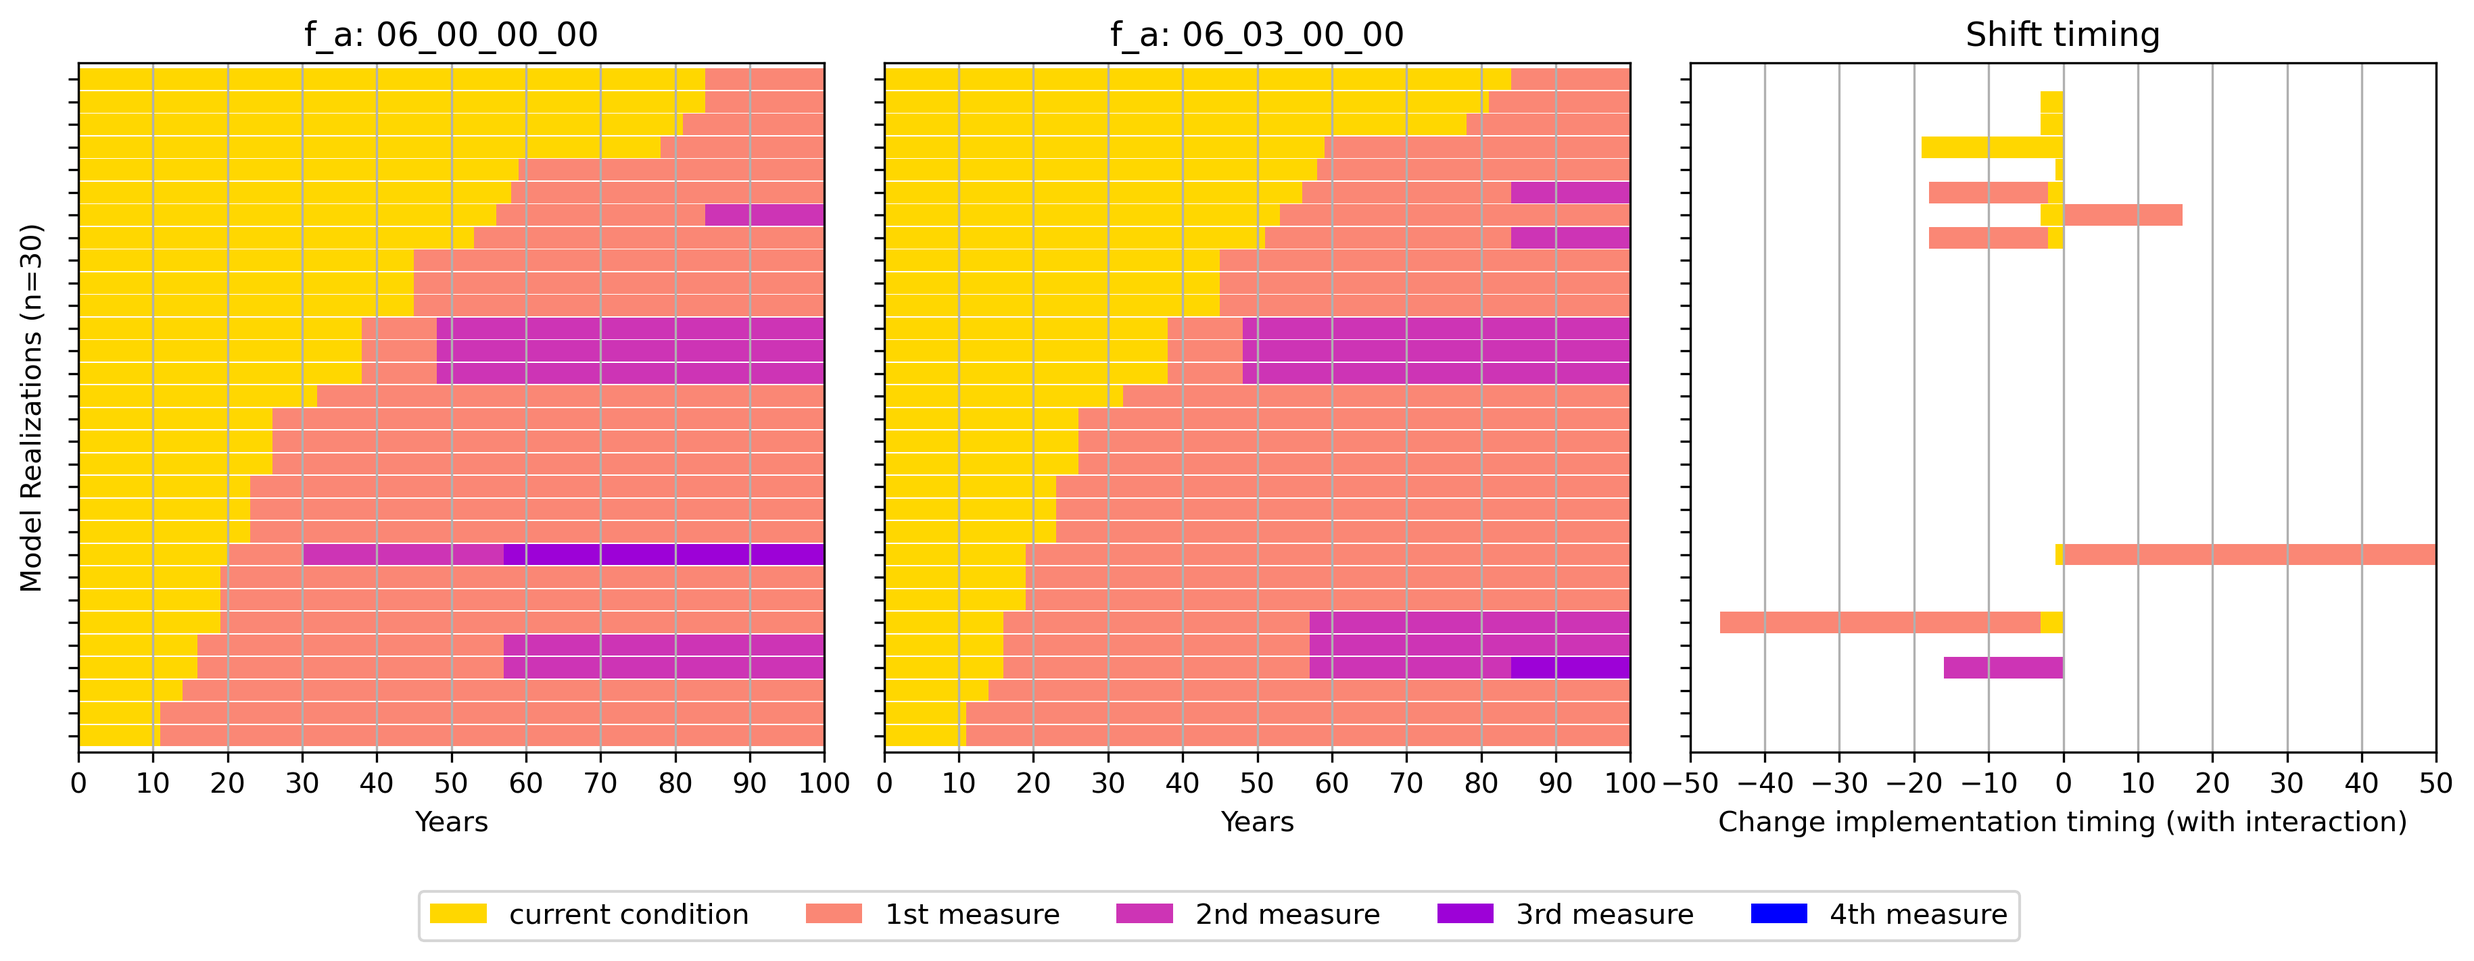
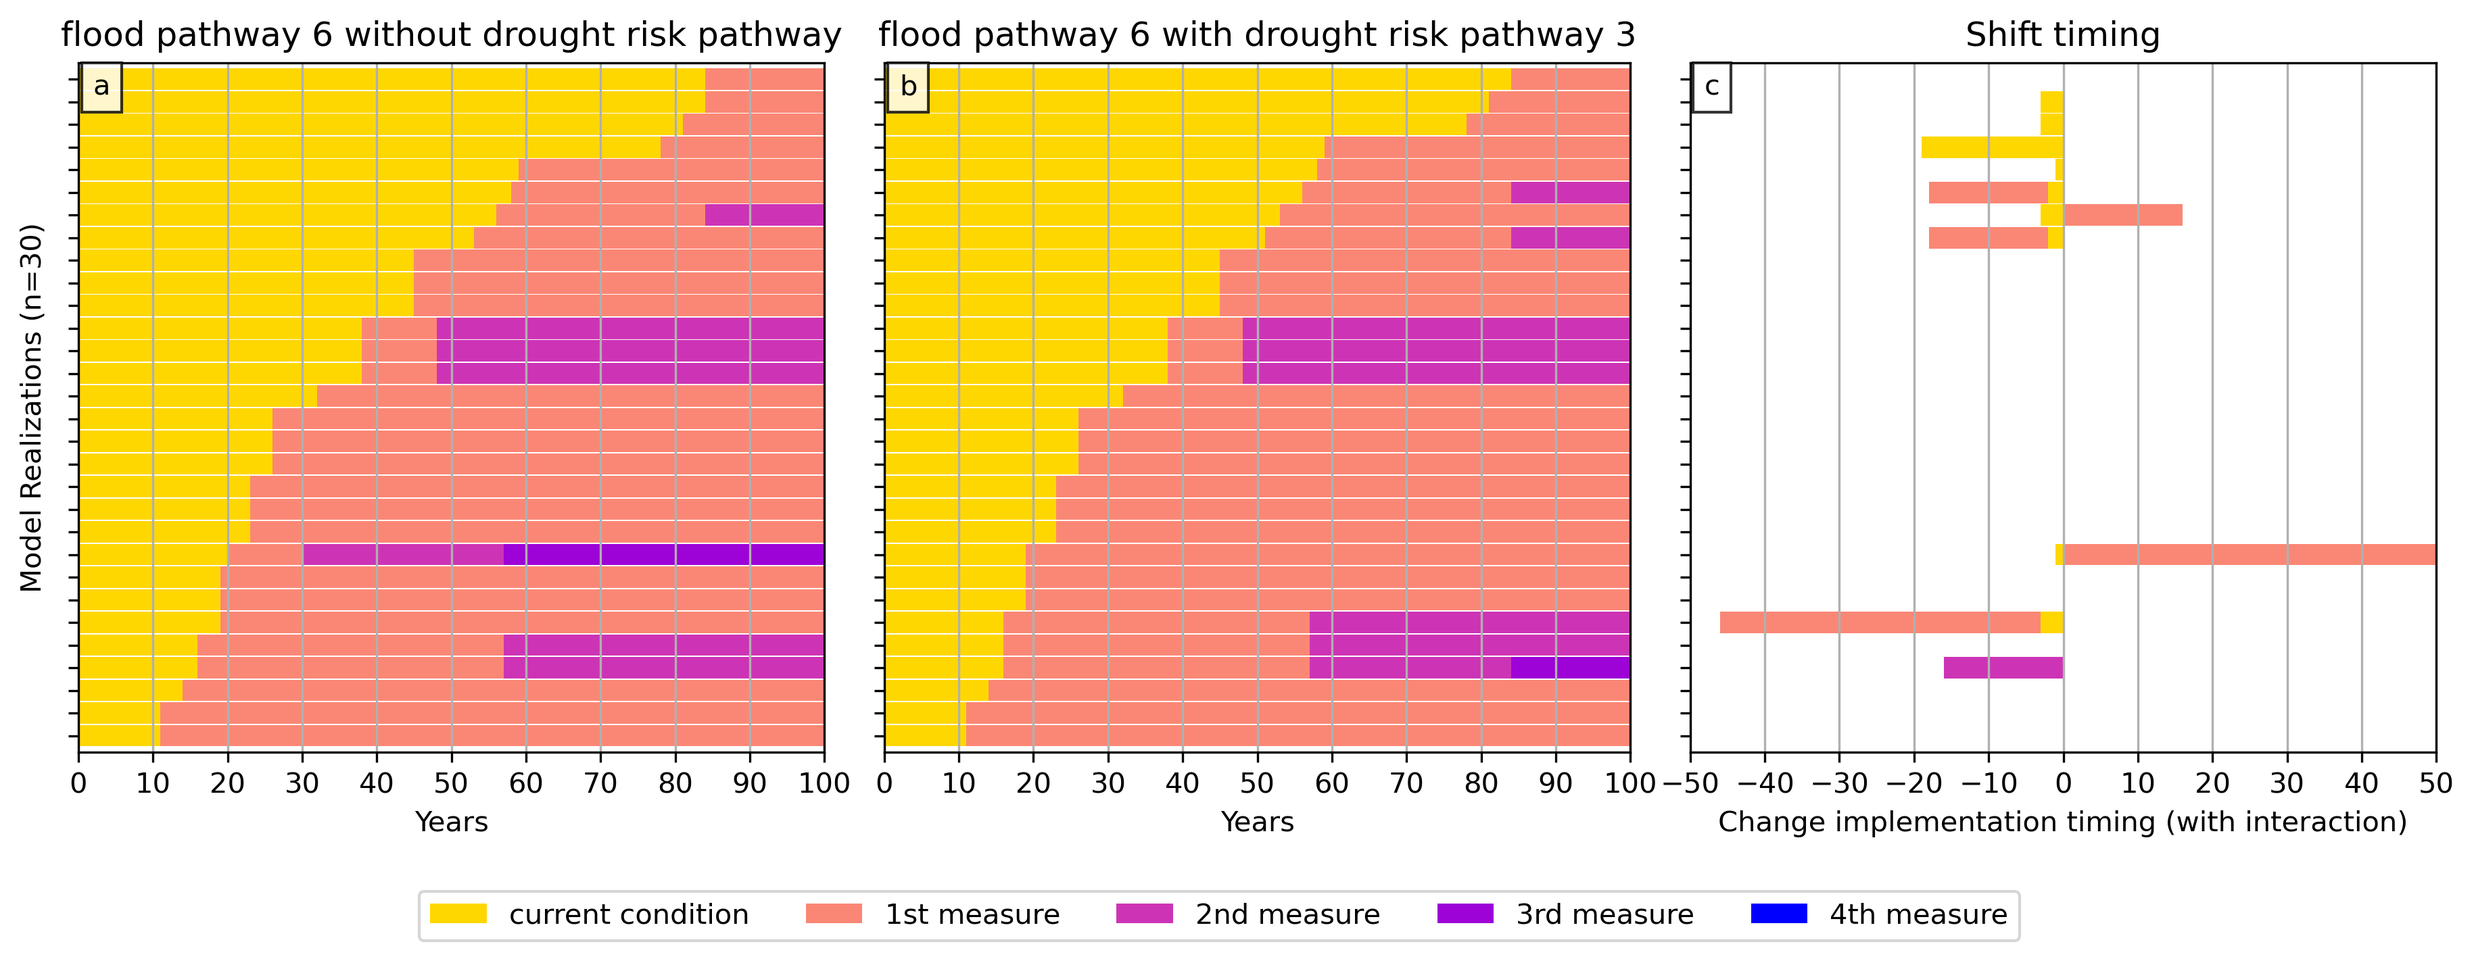
Waasmodel and additional files for output creation & change pathways sequencing changes if measure removed (keep &&)

Changed region(s): [[0.0312, 0.0, 0.6543, 0.1238]]

diff --git a/show_input_uncertainties.py b/show_input_uncertainties.py
@@ -1,0 +1,237 @@
+import pandas as pd
+import numpy as np
+import seaborn as sns
+from viz.helper_outputprocessing import read_csv_file
+import matplotlib.pyplot as plt
+from scipy.stats import linregress
+from pcraster import *
+
+
+cc_scenarios_labels = {'D': 'current climate',
+                'G': 'low climate change',
+                'Wp': 'high climate change'}
+
+def process_dataframe_updated(dataframe):
+    # Group by 'climvar' and 'cc_scenario'
+    groups = dataframe.groupby(['climvar', 'cc_scenario'])
+
+    # List to hold the processed dataframes
+    processed_dfs = []
+
+    for _, group in groups:
+        # Drop rows where 'value' is 0
+        group = group[group['value'] != 0]
+
+        # Drop rows where the 'value' in the next row is larger
+        group = group[group['value'].shift(-1) <= group['value']]
+
+        # Append the processed group to the list
+        processed_dfs.append(group)
+
+    # Concatenate all processed groups into a single DataFrame
+    return pd.concat(processed_dfs)
+
+
+
+
+# Permanently changes the pandas settings
+pd.set_option('display.max_rows', None)
+pd.set_option('display.max_columns', None)
+pd.set_option('display.width', None)
+pd.set_option('display.max_colwidth', -1)
+
+
+def drought_frequency(d_filename):
+    drought_info = read_csv_file(d_filename)
+
+    # Apply the updated processing function to the DataFrame
+    processed_df_updated = process_dataframe_updated(drought_info)
+    processed_df_updated['year'] = processed_df_updated['year']/35
+    processed_df_updated['value'] = processed_df_updated['value']
+
+    # Identify unique values of 'cc_scenario'
+    cc_scenarios = processed_df_updated['cc_scenario'].unique()
+
+    # Number of unique cc_scenario values
+    num_cc_scenarios = len(cc_scenarios)
+
+    # First row: Histograms with bin centers at integers for each cc_scenario
+    bin_edges = np.arange(-5, 190, 10)  # Bin edges from -0.5 to 19.5
+
+
+    # Create a figure with two rows of subplots
+    fig, axes = plt.subplots(nrows=2, ncols=num_cc_scenarios, sharey='row', figsize=(15, 7))
+
+    # First row: Histograms for each cc_scenario
+    for i, cc in enumerate(cc_scenarios):
+        axes[0, i].hist(processed_df_updated[processed_df_updated['cc_scenario'] == cc]['value'], bins=bin_edges)
+        axes[0, i].set_title(f'Frequency Droughts ({cc_scenarios_labels[cc]} scenario)')
+        axes[0, i].set_xlabel('Drought Condition Length [days]')
+        if i == 0:
+            axes[0, i].set_ylabel('Frequency')
+
+        # Set x-axis to show integers from 0 to 19
+        axes[0, i].set_xlim(0, 190)
+        axes[0, i].set_xticks(range(0, 190,10))
+        axes[0, i].set_ylim(0, 520)
+        # plt.xticks()
+        axes[0, i].tick_params(axis='x', labelrotation=45)
+        # axes[0, i].set_xticks(range(0, 200, 10))
+
+    # Second row: Scatterplots for each cc_scenario
+    for i, cc in enumerate(cc_scenarios):
+        subset = processed_df_updated[processed_df_updated['cc_scenario'] == cc]
+        # # Calculate trend line
+        slope, intercept, _, _, _ = linregress(subset['year'], subset['value'])
+        trend_line = slope * subset['year'] + intercept
+        axes[1, i].plot(subset['year'], trend_line, color="red")  # Trend line in red
+
+        sns.histplot(subset, x="year", y="value", ax=axes[1, i], binwidth=(5, 10))
+        axes[1, i].set_title(f'Temporal distribution ({cc_scenarios_labels[cc]} scenario)')
+        axes[1, i].set_xlabel('Years into the future')
+        if i == 0:
+            axes[1, i].set_ylabel('Drought Condition Length [days]')
+        axes[1, i].set_ylim(0, 190)
+        axes[1, i].set_yticks(range(0, 190,20))
+    fig.suptitle('Drought Event Lenghts - Frequency and Temporal distribution', size=16)
+    plt.tight_layout()
+    fig.savefig(f'{inputfolder}/drought_occurences.png', dpi=300)
+
+def get_flood_count_quantiles(df, output):
+    df_lineplot = df[df.output == output]
+    df_lineplot['year'] = df_lineplot['year'] / 35
+    df_lineplot['count'] = (df_lineplot['value'] != 0).astype(int)
+
+    df_lineplot['count'] = df_lineplot.groupby(['cc_scenario', 'climvar'])['count'].cumsum()
+    return df_lineplot
+
+
+def flood_frequency(f_filename):
+    flood_info = read_csv_file(f_filename)
+    df_lineplot = get_flood_count_quantiles(flood_info,  'floodtiming')
+    grouped = df_lineplot.groupby(['cc_scenario', 'year'])['count'].quantile([.1, .5, .9])
+    grouped = grouped.reset_index()
+
+    # Unique cc_scenario values for creating subplots
+    cc_scenarios = grouped['cc_scenario'].unique()
+
+    # Creating subplots
+    fig, axes = plt.subplots(nrows=1, ncols=len(cc_scenarios), figsize=(15, 5), sharey=True)
+
+    for i, cc in enumerate(cc_scenarios):
+        subset = grouped[grouped['cc_scenario'] == cc]
+        median_values = subset[subset['level_2'] == 0.5]
+        lower_values = subset[subset['level_2'] == 0.1]
+        upper_values = subset[subset['level_2'] == 0.9]
+
+        axes[i].plot(median_values['year'], median_values['count'], label='Median')
+        axes[i].fill_between(median_values['year'], lower_values['count'], upper_values['count'], alpha=0.3)
+        axes[i].set_title(f'{cc_scenarios_labels[cc]} scenario')
+        axes[i].set_xlabel('Years into the future')
+        axes[i].grid()
+        if i == 0:
+            axes[i].set_ylabel('Count Flood events')
+    fig.suptitle('Accumulated Flood counts (with uncertainty bands)', size=16)
+    plt.legend()
+    plt.tight_layout()
+    fig.savefig(f'{inputfolder}/flood_occurence.png', dpi=300)
+
+def flood_vs_multihazard(mh_flood, flood):
+    flood_info = read_csv_file(flood)
+    mh_info = read_csv_file(mh_flood)
+    df_floodplot = get_flood_count_quantiles(flood_info,  'floodtiming')
+    df_mhplot = get_flood_count_quantiles(mh_info,  'floodtiming')
+
+    sh_floods = df_floodplot.groupby(['cc_scenario', 'year'])['count'].quantile([.1, .5, .9])
+    sh_floods = sh_floods.reset_index()
+
+    mh_floods = df_mhplot.groupby(['cc_scenario', 'year'])['count'].quantile([.1, .5, .9])
+    mh_floods = mh_floods.reset_index()
+
+    # Unique cc_scenario values for creating subplots
+    cc_scenarios = mh_floods['cc_scenario'].unique()
+
+    # Creating subplots
+    fig, axes = plt.subplots(nrows=1, ncols=len(cc_scenarios), figsize=(15, 5), sharey=True)
+
+    for i, cc in enumerate(cc_scenarios):
+        sh_subset = sh_floods[sh_floods['cc_scenario'] == cc]
+        sh_median_values = sh_subset[sh_subset['level_2'] == 0.5]
+        sh_lower_values = sh_subset[sh_subset['level_2'] == 0.1]
+        sh_upper_values = sh_subset[sh_subset['level_2'] == 0.9]
+
+        mh_subset = mh_floods[mh_floods['cc_scenario'] == cc]
+        mh_median_values = mh_subset[mh_subset['level_2'] == 0.5]
+        mh_lower_values = mh_subset[mh_subset['level_2'] == 0.1]
+        mh_upper_values = mh_subset[mh_subset['level_2'] == 0.9]
+
+        axes[i].plot(sh_median_values['year'], sh_median_values['count'], label='Single-Hazard Flood Median')
+        axes[i].fill_between(sh_median_values['year'], sh_lower_values['count'], sh_upper_values['count'],
+                             alpha=0.3)
+
+        axes[i].plot(mh_median_values['year'], mh_median_values['count'], label='Multi-Hazard Flood Median')
+        axes[i].fill_between(mh_median_values['year'], mh_lower_values['count'], mh_upper_values['count'],
+                             alpha=0.3)
+        axes[i].set_title(f'{cc_scenarios_labels[cc]} scenario')
+        axes[i].set_xlabel('Years into the future')
+        axes[i].grid()
+        if i == 0:
+            axes[i].set_ylabel('Count Flood events')
+    fig.suptitle('Comparing Multi-Hazard and Single-Hazard Flood Event Counts (with uncertainty bands)', size=16)
+    plt.legend()
+
+    plt.tight_layout()
+    fig.savefig(f'{inputfolder}/flood_occurence_comparison.png', dpi=300)
+
+def count_waterlogging_events(mh_filename):
+    waterlogging_info = read_csv_file(mh_filename)
+    waterlogging_info = waterlogging_info[waterlogging_info.output == 'agri_areas_exposed_count']
+    waterlogging_info['value'] = waterlogging_info['value'].apply(lambda x: x if x >= 2000 else 0)
+
+    df_lineplot = get_flood_count_quantiles(waterlogging_info, 'agri_areas_exposed_count')
+    grouped = df_lineplot.groupby(['cc_scenario', 'year'])['count'].quantile([.1, .5, .9])
+    grouped = grouped.reset_index()
+
+    # Unique cc_scenario values for creating subplots
+    cc_scenarios = grouped['cc_scenario'].unique()
+
+    # Creating subplots
+    fig, axes = plt.subplots(nrows=1, ncols=len(cc_scenarios), figsize=(15, 5), sharey=True)
+
+    for i, cc in enumerate(cc_scenarios):
+        subset = grouped[grouped['cc_scenario'] == cc]
+        median_values = subset[subset['level_2'] == 0.5]
+        lower_values = subset[subset['level_2'] == 0.1]
+        upper_values = subset[subset['level_2'] == 0.9]
+
+        axes[i].plot(median_values['year'], median_values['count'], label='Median')
+        axes[i].fill_between(median_values['year'], lower_values['count'], upper_values['count'],
+                             alpha=0.3)
+        axes[i].set_title(f'({cc_scenarios_labels[cc]} scenario)')
+        axes[i].set_xlabel('Years into the future')
+        axes[i].grid()
+        if i == 0:
+            axes[i].set_ylabel('Count Waterlogging Events')
+    fig.suptitle('Accumulated count of Waterlogging Events (with uncertainty bands)', size=16)
+    plt.legend()
+    plt.tight_layout()
+    fig.savefig(f'{inputfolder}/waterlogging_occurence.png', dpi=300)
+
+
+inputfolder = 'inputs_visual/009999'
+
+filename = 'portfolio_00_00_00_00.csv.gz'
+# droughts
+d_filename = f'{inputfolder}/stage_1/drought_agr/{filename}'
+f_filename = f'{inputfolder}/stage_1/flood_agr/{filename}'
+mh_filename = f'{inputfolder}/stage_2/multihaz_agr/{filename}'
+
+drought_frequency(d_filename)
+flood_frequency(f_filename)
+flood_vs_multihazard(mh_filename, f_filename)
+count_waterlogging_events(mh_filename)
+
+LandUse = readmap(r"{}".format('waasmodel_v6/inputs/maps/land_ini.pcr'))
+agriculturemap = LandUse == 9  # Veerle Make map with only the agricultural areas
+count_agri_area = pcr2numpy(agriculturemap,0).sum()
+print(count_agri_area)

diff --git a/waasmodel_v6/module_measure.py b/waasmodel_v6/module_measure.py
@@ -175,11 +175,11 @@ class MeasureModule:
                     pass
                     # print(f"{next_measure} is not in the list.")
 
-
-                if next_measure == 'f_resilient_crops' and str(
-                        inputs.measure_numbers['d_resilient_crops']) in module_transfer.pathways_list_d_a:
-                    module_transfer.pathways_list_d_a = module_transfer.pathways_list_d_a.replace(
-                        str(inputs.measure_numbers['d_resilient_crops']), '').replace('&&', '&')
+                #
+                # if next_measure == 'f_resilient_crops' and str(
+                #         inputs.measure_numbers['d_resilient_crops']) in module_transfer.pathways_list_d_a:
+                #     module_transfer.pathways_list_d_a = module_transfer.pathways_list_d_a.replace(
+                #         str(inputs.measure_numbers['d_resilient_crops']), '').replace('&&', '&')
 
                 self.y_lastm_f_a = year  # store year of last measure implemented
         if self.hs_pair == 'flood_urb' or self.stage > 1:
@@ -208,10 +208,10 @@ class MeasureModule:
                     module_transfer=module_transfer, inputs=inputs)
                 self.y_lastm_d_a = year  # store year of last measure implemented
 
-                if next_measure == 'f_resilient_crops' and str(
-                        inputs.measure_numbers['d_resilient_crops']) in module_transfer.pathways_list_d_a:
-                    module_transfer.pathways_list_d_a = module_transfer.pathways_list_d_a.replace(
-                        str(inputs.measure_numbers['d_resilient_crops']), '').replace('&&', '&')
+                # if next_measure == 'f_resilient_crops' and str(
+                #         inputs.measure_numbers['d_resilient_crops']) in module_transfer.pathways_list_d_a:
+                #     module_transfer.pathways_list_d_a = module_transfer.pathways_list_d_a.replace(
+                #         str(inputs.measure_numbers['d_resilient_crops']), '').replace('&&', '&')
 
         if self.hs_pair == 'drought_shp' or self.stage > 1:
             if (module_transfer.d_s_decision_value >= inputs.d_s_tp_cond or module_transfer.DamShp_tot >= inputs.d_s_tp_extreme_year) and year >= self.y_lastm_d_s + inputs.yrs_btw_nmeas:

diff --git a/waasmodel_v6/inputs_runclass.py b/waasmodel_v6/inputs_runclass.py
@@ -60,15 +60,7 @@ class RunClassInputs:
         self.keys_dict[2]['multihaz_agr']['analysis'] = ['f_a_decision_value', 'DamAgr_f', 'pathways_list_f_a',
                                                       'DikeFails', 'wlvl', 'fragdike',
                                                       'ClimQmax', 'sprink_dikes']
-        # self.keys_dict[2]['multihaz_agr']['analysis'] = ['f_a_decision_value', 'd_a_decision_value', 'DikeFails_tot',
-        #                                                  'DamAgr_f_tot',
-        #                                                  'lost_cropland', 'pathways_list_f_a',
-        #                                                  'DamAgr_f', 'DikeFails', 'wlvl', 'fragdike', 'floodtiming',
-        #                                                  'ClimQmax', 'sprink_dikes', 'DamAgr_d', 'caprise',
-        #                                                  'collectwater',
-        #                                                  'epot', 'eact', 'eratio', 'soilm', 'groundwlvl', 'percol',
-        #                                                  'wbalance', 'survfrac', 'runoff', 'sprink', 'damfrac_t_d',
-        #                                                  'damfrac_tot_d', 'yact', 'ypot', 'revenue_agr']
+
         self.keys_dict[2]['multihaz_urb']['out_only'] = ['f_u_decision_value', 'DamUrb_tot',
                                                       'pathways_list_f_u']
         self.keys_dict[2]['multihaz_urb']['analysis'] = ['f_u_decision_value', 'DikeFails_tot', 'DamUrb_tot',
@@ -106,4 +98,11 @@ class RunClassInputs:
         self.keys_dict[3]['multihaz_multisec']['analysis'] = ['f_a_decision_value', 'DamAgr_f', 'pathways_list_f_a',
                                                          'DikeFails', 'wlvl', 'fragdike',
                                                          'ClimQmax', 'sprink_dikes']
+
+        # input analysis
+        self.keys_dict[1]['flood_agr']['analysis'] = ['floodtiming']
+        self.keys_dict[1]['drought_agr']['analysis'] = ['droughtdays']
+
+        self.keys_dict[2]['multihaz_agr']['analysis'] = ['floodtiming', 'droughtdays', 'agri_areas_exposed_count'
+                                                         ]
 

diff --git a/run_model.py b/run_model.py
@@ -38,23 +38,23 @@ def normal_run(realization_ini, sector, stage, pathway_combinations, start_value
 
 
 # SPECIFIC RUN #
-sector = 'drought_shp' # options are: 'flood_agr', 'drought_agr', 'flood_urb', 'drought_shp', 'multihaz_agr', 'multihaz_urb', 'multihaz_multisec'
+sector = 'multihaz_agr' # options are: 'flood_agr', 'drought_agr', 'flood_urb', 'drought_shp', 'multihaz_agr', 'multihaz_urb', 'multihaz_multisec'
 first_scenario = 1  # scenarios from 1 to 31
-stage = 1
+stage = 2
 num_scenarios = 30
 analysis = 'analysis'  # 'out_only', 'analysis' to specify which outputfiles are generated (see inputs_runclass.py)
 test_all = False  # if False, only discharge levels not leading to damages will be neglected (speed up computation)
-outfolder = 'model_outputs'  # name of folder (within current folder) created to store the outputs
+outfolder = 'inputs_visual'  # name of folder (within current folder) created to store the outputs
 measure_list = [['no_measure']]
-realization_numbers = [22000]
+realization_numbers = [9999]
 portfolio_numbers = {
-                'flood_agr': 2,
+                'flood_agr': 0,
                 'flood_urb': 0,
-                'drought_agr': 1,
+                'drought_agr': 0,
                 'drought_shp': 0}
 
-# specific_run(sector=sector, stage=stage, first_scenario=first_scenario, num_scenarios=num_scenarios,analysis=analysis,
-#              test_all=test_all, outfolder=outfolder, measure_list=measure_list, portfolio_numbers=portfolio_numbers)
+specific_run(sector=sector, stage=stage, first_scenario=first_scenario, num_scenarios=num_scenarios,analysis=analysis,
+             test_all=test_all, outfolder=outfolder, measure_list=measure_list, portfolio_numbers=portfolio_numbers)
 
 
 # NORMAL RUN #
@@ -70,5 +70,5 @@ start_value = 6 # which potential pathways combinations to test.
 end_value = len(pathway_combinations)
 
 #
-normal_run(realization_ini=realization, sector=sector,stage=stage,
-           pathway_combinations=pathway_combinations, start_value=start_value, end_value=end_value)
+# normal_run(realization_ini=realization, sector=sector,stage=stage,
+#            pathway_combinations=pathway_combinations, start_value=start_value, end_value=end_value)

diff --git a/viz/output_viz.py b/viz/output_viz.py
@@ -907,9 +907,17 @@ class OutputPocessing():
                 axs[ax_tick].set_ylabel(f'Model Realizations (n={len(portfol_df.ylabel)})')
             else:
                 axs[ax_tick].set_ylabel(f'')
-            axs[ax_tick].set_title(f'{no_interaction[0]}: {portfol}')
+            # axs[ax_tick].set_title(f'{no_interaction[0]}: {portfol}')
             axs[ax_tick].set_xlim([0,100])
             axs[ax_tick].set_xticks(np.arange(0, 101, 10))
+            # Add text boxes
+            if ax_tick == 0:
+                axs[ax_tick].set_title(f'flood pathway 6 without drought risk pathway')
+                axs[ax_tick].text(2, 28.3, 'a', bbox=dict(facecolor='white', alpha=0.8))
+            else:
+                axs[ax_tick].set_title(f'flood pathway 6 with drought risk pathway 3')
+                axs[ax_tick].text(2, 28.3, 'b',
+                                  bbox=dict(facecolor='white', alpha=0.8))
 
             # store for difference_groups
             if portfol == difference_groups['no_interaction'][1]:
@@ -935,6 +943,8 @@ class OutputPocessing():
         axs[ax_tick].set_title(f'Shift timing')
         axs[ax_tick].set_xlim([-50, 50])
         axs[ax_tick].set_xticks(np.arange(-50, 51, 10))
+        axs[ax_tick].text(-48.1, 28.3, 'c', bbox=dict(facecolor='white', alpha=0.8))
+
         # plt.tight_layout()
 
         # Adjust figure to make space for the legend

diff --git a/run_outputvisualization.py b/run_outputvisualization.py
@@ -2,7 +2,7 @@ from viz.output_viz import OutputPocessing
 
 
 realization = 5000
-stages = [1,2,3]
+stages = [2]
 outfolder = 'model_outputs'  # name of folder (within current folder) created to store the outputs
 no_realizations = 1
 
@@ -17,10 +17,10 @@ sectors_list = {1: ['flood_urb'],
 sectors_list = sectors_list[max(stages)]
 print(sectors_list, max(stages))
 
-robustness_heatmap = True
+robustness_heatmap = False
 interactionplot = False
 convert_files_switch = False
-timingplot = False
+timingplot = True
 
 difference_groups = {'no_interaction': ['f_a', '06_00_00_00' ],
                              'with_interaction': ['f_a', '06_03_00_00' ]}

diff --git a/waasmodel_v6/module_drought_agr.py b/waasmodel_v6/module_drought_agr.py
@@ -482,7 +482,8 @@ class DAgrModule:
 
         return collectwater, sprink, sprink_need
 
-    def waterlogging(self,  precip, timemod, module_transfer, inputs):
+    def \
+            waterlogging(self,  precip, timemod, module_transfer, inputs):
         if self.stage >= 2:
             # Do the pre-calculation work
             precip_temp = np.zeros((60, 125))
